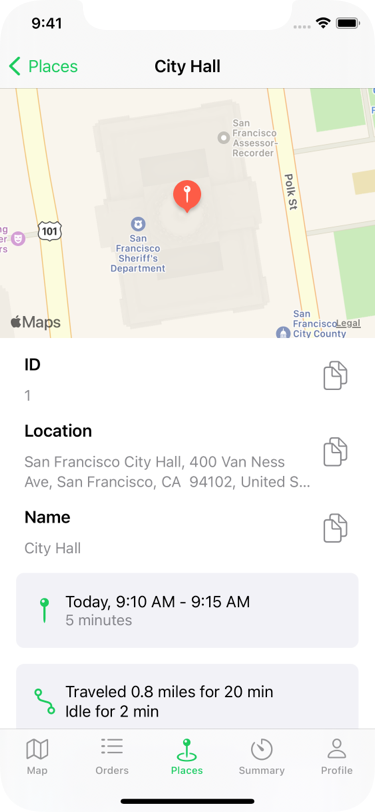
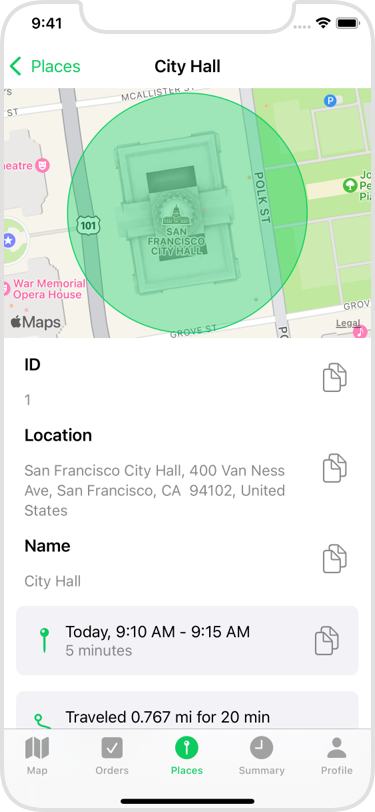
Update screenshots with borders and summary screenshot

diff --git a/Visits/Screenshots.swift b/Visits/Screenshots.swift
@@ -17,6 +17,7 @@ extension AppState {
   static let orderScreenshot = Self.operational(
     operational_ |> \.flow *< .main(
       main |> \.selectedOrderId *< .some(ongoing.id)
+           <> \.trip *< .some(trip)
            <> \.tab *< .orders
     )
   )
@@ -25,6 +26,13 @@ extension AppState {
     operational_ |> \.flow *< .main(
       main |> \.places *< .some(placesSummary)
            <> \.history *< history
+           <> \.tab *< .places
+    )
+  )
+
+  static let placeScreenshot = Self.operational(
+    operational_ |> \.flow *< .main(
+      main |> \.selectedPlace *< .some(cityHall)
            <> \.tab *< .places
     )
   )
@@ -209,16 +217,6 @@ private let cityHall = Place(
         duration: .init(rawValue: 1234),
         idleTime: .init(rawValue: 123)
       )
-    ),
-    .init(
-      id: "2",
-      entry: taggedDate(hour: 7, minute: 10, second: 50),
-      exit: taggedDate(hour: 7, minute: 15, second: 50),
-      route: .init(
-        distance: .init(rawValue: 1234),
-        duration: .init(rawValue: 1234),
-        idleTime: .init(rawValue: 123)
-      )
     )
   ]
 )
@@ -233,8 +231,8 @@ private let artsCenter = Place(
   visits: [
     .init(
       id: "123456",
-      entry: .init(rawValue: date(hour: 8, minute: 05, second: 30) - (24 * 60 * 60)),
-      exit: .init(rawValue: date(hour: 8, minute: 30, second: 30) - (24 * 60 * 60)),
+      entry: .init(rawValue: date(hour: 8, minute: 05, second: 30)),
+      exit: .init(rawValue: date(hour: 8, minute: 30, second: 30)),
       route: .init(
         distance: .init(rawValue: 1234),
         duration: .init(rawValue: 1234),
